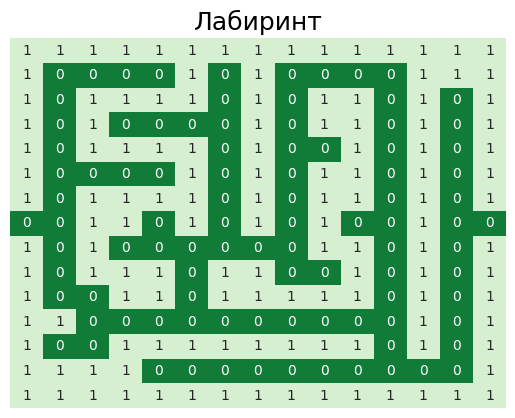
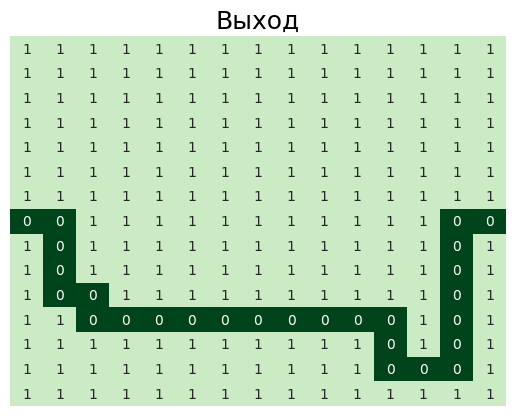
Add pictures of maze and way

diff --git a/slumpy_dogs/labSix/task3.py b/slumpy_dogs/labSix/task3.py
@@ -72,9 +72,9 @@ while k > 1:
 data = outputWayToExit(path)
 ax = sns.heatmap(maze, annot=True, fmt="d", cbar=None, xticklabels=False, yticklabels=False, cmap="Greens_r", vmin=-0.3, vmax=1.3)
 plt.title("Лабиринт", fontsize=18)
-plt.savefig("visualize_way_to_exit.png", bbox_inches='tight', dpi=100)
+plt.savefig("visualize_maze.png", bbox_inches='tight', dpi=100)
 plt.show()
 ax = sns.heatmap(data, annot=True, fmt="d", cbar=None, xticklabels=False, yticklabels=False, cmap="Greens_r", vmin=0, vmax=1.3)
 plt.title("Выход", fontsize=18)
-plt.savefig("visualize_way_to_exit1.png", bbox_inches='tight', dpi=100)
+plt.savefig("visualize_way_to_exit.png", bbox_inches='tight', dpi=100)
 plt.show()
